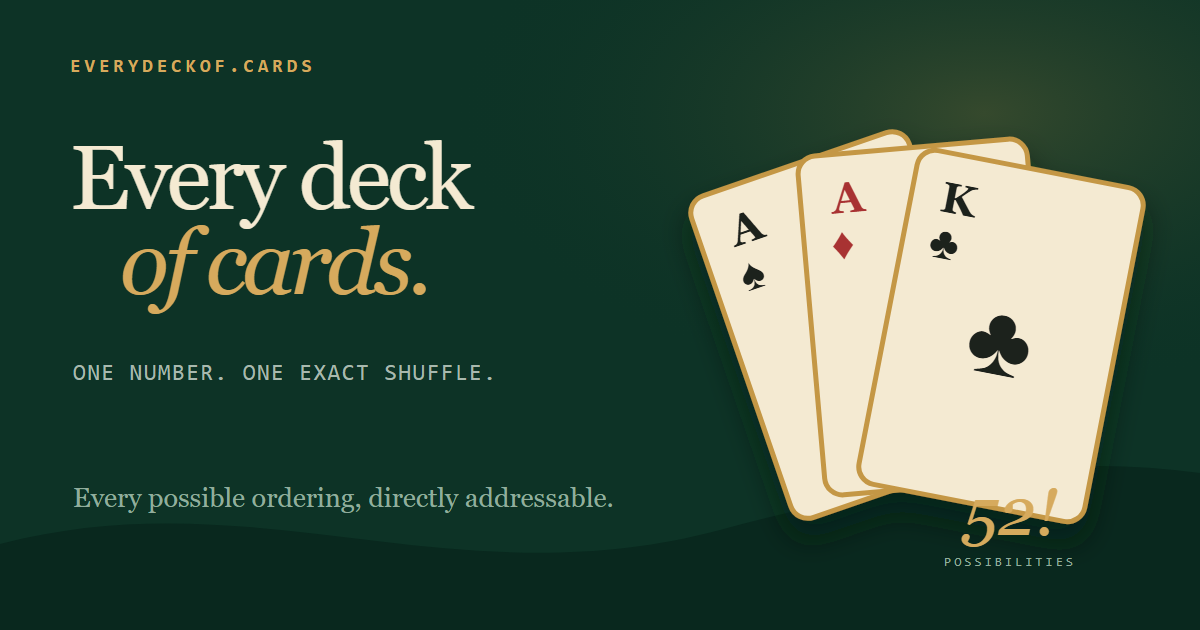
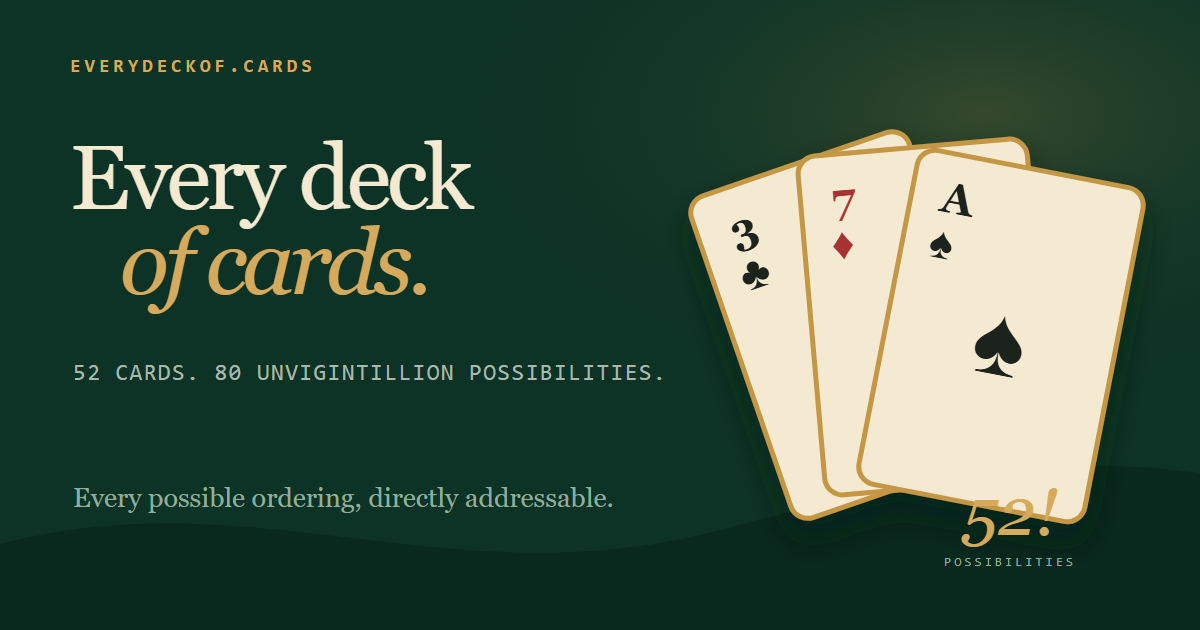
feat(branding): update tagline and social card

diff --git a/src/Document.tsx b/src/Document.tsx
@@ -28,11 +28,11 @@ export default function Document(props: ParentProps) {
         <meta property="og:url" content="https://everydeckof.cards/" />
         <meta
           property="og:title"
-          content="Every Deck of Cards | One Number. One Exact Shuffle."
+          content="Every Deck of Cards | 52 Cards. 80 Unvigintillion Possibilities."
         />
         <meta
           property="og:description"
-          content="Every possible 52-card deck has an exact number. Explore 80 unvigintillion deck orderings without enumerating the rest."
+          content="52 cards. 80 unvigintillion possibilities. Every possible deck has an exact number."
         />
         <meta
           property="og:image"
@@ -43,17 +43,17 @@ export default function Document(props: ParentProps) {
         <meta property="og:image:height" content="630" />
         <meta
           property="og:image:alt"
-          content="Every Deck of Cards title beside a fan of playing cards and the number 52 factorial on a deep green background."
+          content="Every Deck of Cards title and the tagline 52 cards. 80 unvigintillion possibilities. beside a fan of playing cards led by an ace of spades and the number 52 factorial on a deep green background."
         />
 
         <meta name="twitter:card" content="summary_large_image" />
         <meta
           name="twitter:title"
-          content="Every Deck of Cards | One Number. One Exact Shuffle."
+          content="Every Deck of Cards | 52 Cards. 80 Unvigintillion Possibilities."
         />
         <meta
           name="twitter:description"
-          content="Every possible 52-card deck has an exact number. Explore the mathematics behind 52! shuffles."
+          content="52 cards. 80 unvigintillion possibilities. Every possible deck has an exact number."
         />
         <meta
           name="twitter:image"
@@ -61,10 +61,12 @@ export default function Document(props: ParentProps) {
         />
         <meta
           name="twitter:image:alt"
-          content="Every Deck of Cards title beside a fan of playing cards and the number 52 factorial on a deep green background."
+          content="Every Deck of Cards title and the tagline 52 cards. 80 unvigintillion possibilities. beside a fan of playing cards led by an ace of spades and the number 52 factorial on a deep green background."
         />
 
-        <title>Every Deck of Cards | One Number. One Exact Shuffle.</title>
+        <title>
+          Every Deck of Cards | 52 Cards. 80 Unvigintillion Possibilities.
+        </title>
       </head>
       <body>{props.children}</body>
     </html>

diff --git a/src/HomePage.tsx b/src/HomePage.tsx
@@ -5,7 +5,7 @@ const deckCount = factorial(52).toLocaleString('en-US')
 export function HomePage() {
   return (
     <section class="hero" aria-labelledby="hero-title">
-      <p class="eyebrow">One number. One exact shuffle.</p>
+      <p class="eyebrow">52 cards. 80 unvigintillion possibilities.</p>
       <h1 id="hero-title">
         Every deck
         <span>of cards.</span>

diff --git a/src/TalkPage.tsx b/src/TalkPage.tsx
@@ -19,7 +19,7 @@ export function TalkPage() {
 
   const slides: Slide[] = [
     {
-      title: 'One number. One exact shuffle.',
+      title: '52 cards. 80 unvigintillion possibilities.',
       body: () => (
         <p>
           Every ordering of a 52-card deck has exactly one number. No list, no

diff --git a/docs/plans/completed/2026-08-30-tagline.md b/docs/plans/completed/2026-08-30-tagline.md
@@ -1,0 +1,89 @@
+---
+title: Explore and ship a new tagline
+status: completed
+created: 2026-08-30
+updated: 2026-08-30
+owners:
+  - human
+  - opencode
+---
+
+# Goal
+
+Replace the current tagline — "One number. One exact shuffle." — with a better one. The current line is agreed to be mid.
+
+# Non-Goals
+
+- Hero layout changes (owned by `2026-08-30-explorer-first-home.md`; this plan swaps words, not structure, and rebases onto whichever hero exists when it lands).
+
+# Context
+
+- The tagline appears as the hero eyebrow on `/`, opens talk mode's first slide, appears in page and social metadata, and is rendered into the static social-card artwork.
+- Candidates to workshop, seeded from the design conversation:
+  - "Every shuffle has an address."
+  - "Your next shuffle is already here."
+  - "All 80,658,… of them, in order." (full 68-digit count rendered by the site, not hard-coded)
+  - "52! decks. One number each."
+  - "Every possible deck, exactly numbered."
+  - "52 cards. 80 unvigintillion possibilities." (42 chars — deliberately over the ≤ 40 guideline; 52! ≈ 80.66 × 10⁶⁶)
+- Selection is by human review; this plan exists to track the exploration and keep both call sites in sync.
+
+# Dependencies
+
+None.
+
+# Proposed Changes
+
+- Shortlist from the candidates (plus any new ones), pick one in review, and update every public copy surface.
+- Update the social-card SVG and derived 1200 by 630 PNG so the shared image matches the selected line and has `A♠` as its front card, backed by `7♦` and `3♣`.
+- Keep the line short enough for the eyebrow style (roughly ≤ 40 characters) and accurate to the premise (exact, reversible, one number per deck).
+
+# Test Plan
+
+- Existing suites pass; if any spec asserts on the old phrase, update it in the same change.
+
+# Benchmark Plan
+
+None.
+
+# Security Considerations
+
+None.
+
+# Documentation Changes
+
+None, unless the README quotes the tagline — check.
+
+# Tasks
+
+- [x] Shortlist and pick the tagline.
+- [x] Update `HomePage.tsx` and `TalkPage.tsx` (or the new hero post-redesign).
+- [x] Update social-card artwork and metadata; check README for the old phrase; run quality gates; record evidence.
+
+# Decisions Made
+
+- Pick "52 cards. 80 unvigintillion possibilities." despite its 42-character length because it pairs a familiar physical object with the scale of its permutation space.
+
+# Deviations
+
+- The original roughly 40-character eyebrow limit was exceeded by two characters for the selected copy.
+
+# Verification Evidence
+
+- Verified `52! ≈ 80.66 × 10⁶⁶`; describing the total as 80 unvigintillion possibilities is accurate at the selected precision.
+- The README has no instance of the retired tagline.
+- Regenerated `public/social-card.png` from `public/social-card.svg` with Playwright at 1200 by 630. Visual inspection confirms the new tagline and the foreground `A♠`, backed by `7♦` and `3♣`.
+- `pnpm.cmd format:check`: passed.
+- `pnpm.cmd lint`: passed with zero warnings and zero errors.
+- `pnpm.cmd typecheck`: passed.
+- `pnpm.cmd test`: passed, 131 tests across 12 files.
+- `pnpm.cmd build`: passed; emitted the client and server bundles.
+- `git diff --check`: passed.
+
+# Outcome
+
+The selected tagline is consistent across the home hero, talk opener, document title, Open Graph, Twitter, and the static social card. The social card has a recognizably featured ace of spades without repeating that card in the fan.
+
+# Related Commits
+
+Pending.
